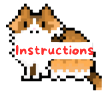
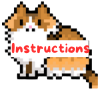
new buttons

diff --git a/src/scripts/scenes/StartScreen.ts b/src/scripts/scenes/StartScreen.ts
@@ -1,3 +1,4 @@
+import ImageButtonObject from "../objects/ImageButtonObject";
 import {TextButtonObject} from "../objects/TextButtonObject";
 
 export default class StartScreen extends Phaser.Scene {
@@ -10,12 +11,30 @@ export default class StartScreen extends Phaser.Scene {
     create() {
         this.add.image(400, 300, 'main');
 
-        this.add.existing(new TextButtonObject(this, 650, 50, 
+        this.add.existing(new ImageButtonObject(this, 675, 57, "instruct-button", () => {
+            this.scene.start("Instructions");
+        }));
+
+        this.add.existing(new ImageButtonObject(this, 600, 200, "lvl-1", () => {
+            this.scene.start("Level1");
+        }));
+
+        this.add.existing(new ImageButtonObject(this, 600, 300, "lvl-2", () => {
+            this.scene.start("Level2");
+        }));
+        
+        this.add.existing(new ImageButtonObject(this, 600, 420, "lvl-3", () => {
+            this.scene.start("Level3");
+        }));
+
+        /*
+        this.add.existing(new TextButtonObject(this, 700, 400, 
             "Instructions", () => {
                 // starts up the tutorial scene when clicked
                 this.scene.start('Instructions');
             }))
 
+        
         this.add.existing(new TextButtonObject(this, 700, 200, 
         "Level 1", () => {
             // starts up the tutorial scene when clicked
@@ -33,5 +52,6 @@ export default class StartScreen extends Phaser.Scene {
             // starts up the tutorial scene when clicked
             this.scene.start('Level3');
         })) 
+        */
     }
 }

diff --git a/src/scripts/scenes/PreLoadScene.ts b/src/scripts/scenes/PreLoadScene.ts
@@ -19,6 +19,10 @@ export default class PreLoadScene extends Phaser.Scene {
         this.load.image('lily', 'assets/pad-resize.png')
         this.load.image('deep', 'assets/deepcopy-button.png')
         this.load.image('shallow', 'assets/shallowcopy-button.png')
+        this.load.image('instruct-button', 'assets/instruct-button.png')
+        this.load.image('lvl-1', 'assets/lvl-1.png')
+        this.load.image('lvl-2', 'assets/lvl-2.png')
+        this.load.image('lvl-3', 'assets/lvl-3.png')
         this.load.spritesheet('cat', 'assets/cat.png', {
 
             frameWidth: 32, frameHeight: 48
